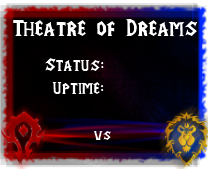
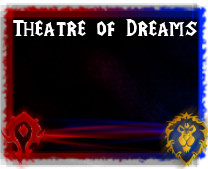
dodanie rev severa

Changed region(s): [[0.2019, 0.3254, 0.5192, 0.4438], [0.2308, 0.4734, 0.4904, 0.5621], [0.4327, 0.7692, 0.5481, 0.8284]]

diff --git a/css/storm_h.css b/css/storm_h.css
@@ -1,13 +1,23 @@
-#horde_nb {position: absolute; top: 138px; left: 30px; width: 60px; text-align: right; font-size: 14px}
-#ally_nb {position: absolute; top: 138px; left: 130px; width: 40px; text-align: left; font-size: 14px}
-#status {position: absolute; top: 69px; left: 120px; width: 56px; text-align: left; font-size: 12px}
-#uptime {position: absolute; top: 91px; left: 120px; width: 85px; text-align: left; font-size: 12px}
+body {padding: 0; margin: 0; background: black}
+#nb_box{position: absolute; top: 7.9em; width: 210px; text-align: center; font-weight: bold;}
+#horde_nb, #ally_nb{font-size: 1.1em}
+#status {position: absolute; top: 3.3em; left: 50px;  text-align: left;}
+#uptime {position: absolute; top: 4.7em; left: 50px;  text-align: left;}
+#rev {position: absolute; top: 6.2em; left: 47px; width: 110px; text-align: center}
 
 .status_online {color: green}
 .status_offline {color: red}
 
-@font-face { font-family: Warcraft; src: url('fonts/warcraft.ttf'); }
-.storm {font-family: Warcraft; font-size: 1.1em; color: white; font-weight: bold}
+@font-face {
+    font-family: 'Warcraft';
+    src: url('fonts/warcraft.eot');
+    src: url('warcraft.eot?#iefix') format('embedded-opentype'),
+         url('fonts/warcraft.ttf') format('truetype');
+    font-weight: normal;
+    font-style: normal;
+}
+
+.storm{font-family: Warcraft; font-size: 1em; color: white; position: relative; display: block; line-height: 1em}
 
 #indicator {position: absolute; left: 21px; top: 14px}
 

diff --git a/project/view/widgetStormHorizontalView.php b/project/view/widgetStormHorizontalView.php
@@ -8,24 +8,29 @@
     <div class="storm" onclick="refreshStatus('widget.php?layout=storm_h')">
         <div id="indicator" style="display: none"><img src="images/indicator.gif" /></div>
         <img src="images/storm_h.png" />
-        <div id="horde_nb"><?php echo $horde_nb ?></div>
-        <div id="ally_nb"><?php echo $ally_nb ?></div>
         <div id="status">
-        <?php if($is_online === true): ?>
-        <span class="status_online">
-            online
-        </span>
-        <?php elseif($is_online === false): ?>
-        <span class="status_offline">
-            offline
-        </span>
-        <?php else: ?>
-        <span class="status_error">
-            błąd
-        </span>
-        <?php endif ?>
+            status: 
+            <?php if($is_online === true): ?>
+            <span class="status_online">
+                online
+            </span>
+            <?php elseif($is_online === false): ?>
+            <span class="status_offline">
+                offline
+            </span>
+            <?php else: ?>
+            <span class="status_error">
+                błąd
+            </span>
+            <?php endif ?>
         </div>
-        <div id="uptime"><?php echo $uptime ?></div>
+        <div id="uptime">uptime: <?php echo $uptime ?></div>
+        <div id="nb_box">
+            <span id="horde_nb"><?php echo $horde_nb ?></span>
+            vs
+            <span id="ally_nb"><?php echo $ally_nb ?></span>
+        </div>
+        <div id="rev">revision: <?php echo $rev ?></div>
     </div>
 </body>
 </html>

diff --git a/project/model/testModel.php b/project/model/testModel.php
@@ -43,7 +43,6 @@ class WidgetModel
             $this->data['ally_nb'] = '??';
             $this->data['uptime'] = '??';
             $this->data['is_online'] = null;
-            $this->data['rev'] = null;
 
             return $this->data;
         }
@@ -52,7 +51,6 @@ class WidgetModel
         $this->data['ally_nb'] = $this->raw_data[2][3];
         $this->data['uptime'] = $this->raw_data[2][5];
         $this->data['is_online'] = $this->raw_data[2][7]=='online'?true:false;
-        $this->data['rev'] = $this->raw_data[2][6];
 
         return $this->data;
     }
@@ -123,16 +121,6 @@ class WidgetModel
     public function getServerUptime()
     {
         return str_replace(array('Hour', 'Min'), array('h', 'm'), $this->data['uptime']);
-    }
-
-    /**
-    * Zwraca rev
-    * @return string
-    */
-    public function getRev()
-    {
-        preg_match('/<a(.+)>(.+)<\/a>/', $this->data['rev'], $match);
-        return str_replace('(changelog)', '', $match[2]);
     }
 
 }

diff --git a/project/controller/widgetController.php b/project/controller/widgetController.php
@@ -16,7 +16,8 @@ class WidgetController
         $ally_nb = $this->model->getAlliancePlayersNb();
         $is_online = $this->model->isServerOnline();
         $uptime = $this->model->getServerUptime();
-   
+        $rev = $this->model->getRev();
+
         $layout = isset($_GET['layout'])?$_GET['layout']:null;
         switch($layout)
         {

diff --git a/project/view/widgetStormView.php b/project/view/widgetStormView.php
@@ -26,6 +26,7 @@
         <?php endif ?>
         </div>
         <div id="uptime"><?php echo $uptime ?></div>
+        <div id="rev"><?php echo $rev ?></div>
     </div>
 </body>
 </html>
